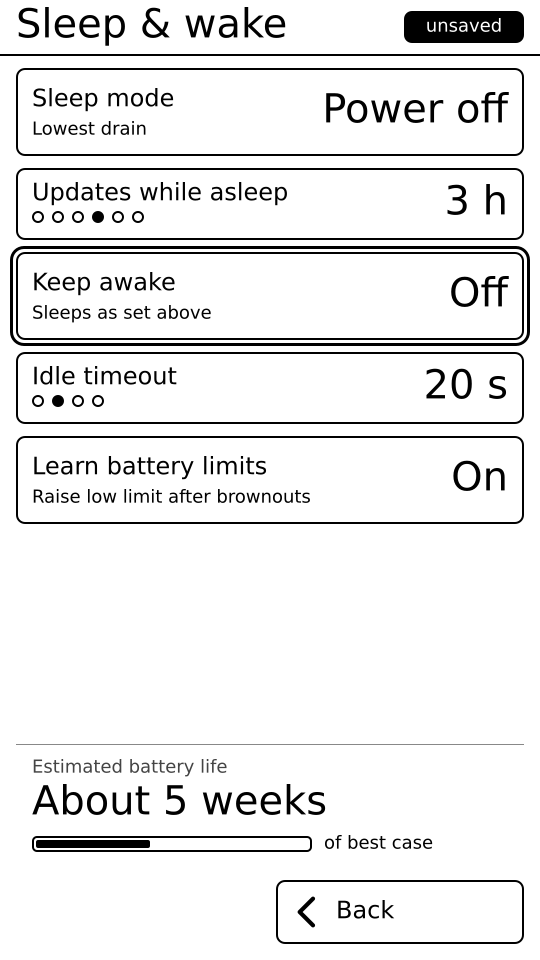
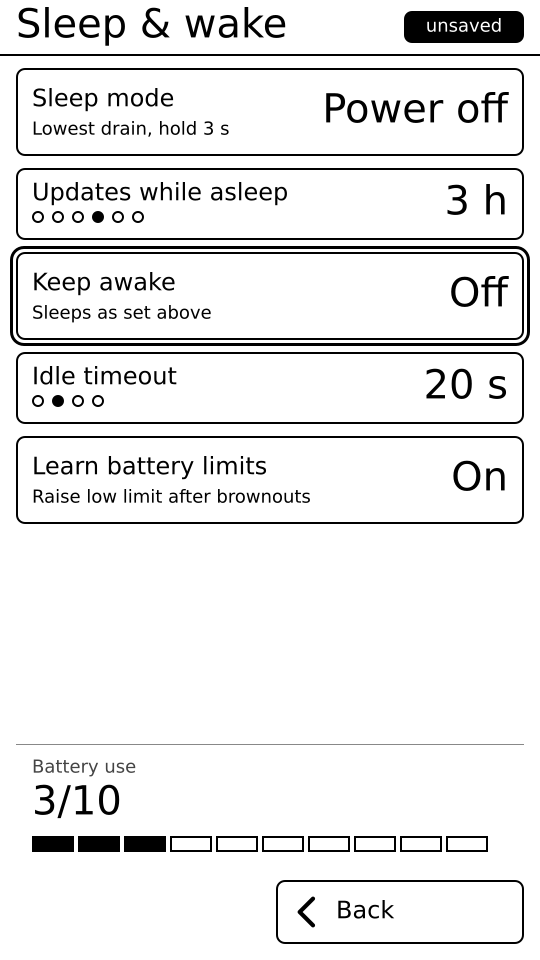
task 085: UI spec battery use bar 1..10, hold 3 s hint

Changed region(s): [[0.0593, 0.7812, 0.8296, 0.9062], [0.2963, 0.125, 0.4148, 0.1562]]

diff --git a/docs/ui/settings.md b/docs/ui/settings.md
@@ -76,7 +76,7 @@ Settings is a two-level system: the **overview** (main page) lists four **catego
 | Category | Settings (edit buffer fields) |
 |----------|-------------------------------|
 | Display | Orientation |
-| Sleep & wake | Sleep mode, Updates while asleep, Keep awake, Idle timeout, Learn battery limits; battery estimate (8.2, revision 10, task 085) |
+| Sleep & wake | Sleep mode, Updates while asleep, Keep awake, Idle timeout, Learn battery limits; battery use bar (8.2, revision 10, task 085) |
 | Network | Wi-Fi (`Auto` / profile names from secrets.yaml), HA connection (`Auto` / `Internal` / `External`) |
 | Tools | Demo mode, Debug log |
 
@@ -199,7 +199,7 @@ All pages: header (title = category name, chip when the buffer is dirty), no tab
 Portrait: Orientation pip row (16, 68, 508, 72). Below it a static caption F18 DIM at (16, 152) cy 168: `Applied when Settings is left.` Landscape: row (16, 64, 456, 68), caption at (16, 132) cy 148. Mockup shows the changed value (unsaved), focus on the row.
 
 ### 8.2 Sleep & wake (`settings-sleep-*.svg`, revision 10, task 085)
-Replaces Wake mode, Refresh every and Stay awake on USB (old 9.1). Mockups: `settings-sleep-portrait.svg` (Power off, updates 3 h, Keep awake Off, focus on Keep awake), `settings-sleep-landscape.svg` (Touch & rocker, 30 min, On USB not offered, touch note, focus on Updates), `settings-sleep-states.svg` (every value of the mode and Keep awake rows, forced-Off row, notes, four estimate looks). Row types as 3.1; values F40 INK right edge W - 16; labels F24 INK at x = 16 (row-relative); ids w-N as listed.
+Replaces Wake mode, Refresh every and Stay awake on USB (old 9.1). Mockups: `settings-sleep-portrait.svg` (Power off, updates 3 h, Keep awake Off, focus on Keep awake), `settings-sleep-landscape.svg` (Touch & rocker, 30 min, On USB not offered, touch note, focus on Updates), `settings-sleep-states.svg` (every value of the mode and Keep awake rows, forced-Off row, notes, four battery use looks (1, 3, 7, 10)). Row types as 3.1; values F40 INK right edge W - 16; labels F24 INK at x = 16 (row-relative); ids w-N as listed.
 
 | # | Row (id) | Type | Portrait rect | Landscape rect |
 |---|----------|------|---------------|----------------|
@@ -209,12 +209,12 @@ Replaces Wake mode, Refresh every and Stay awake on USB (old 9.1). Mockups: `set
 | 4 | Idle timeout (w-4) | pip, 72 / 68 | (16, 352, 508, 72) | (16, 344, 456, 68) |
 | 5 | Learn battery limits (w-5) | hint, 88 (as before: hint `Raise low limit after brownouts`, `Off` / `On`) | (16, 436, 508, 88) | (488, 64, 456, 88) |
 | - | Note area (w-6, w-7 when shown) | notes 64 high, stacked, pitch 76, in this order | from (16, 536, 508, 64) | from (488, 164, 456, 64) |
-| - | Estimate block (next w id) | 124 high, not interactive | (16, 744, 508, 124) | (488, 328, 456, 124) |
+| - | Battery use block (next w id) | 124 high, not interactive | (16, 744, 508, 124) | (488, 328, 456, 124) |
 | - | Back (last w id) | 3.4 | (276, 880, 248, 64) | (722, 464, 222, 64) |
 
-Vertical check (portrait): 68 + 88 + 12 + 72 + 12 + 88 + 12 + 72 + 12 + 88 = 524; notes 536..676 (two at most); estimate 744..868; Back 880 (12 px gap). Landscape: left column ends 412; right column notes end 304 at most; estimate 328..452; Back 464.
+Vertical check (portrait): 68 + 88 + 12 + 72 + 12 + 88 + 12 + 72 + 12 + 88 = 524; notes 536..676 (two at most); battery use block 744..868; Back 880 (12 px gap). Landscape: left column ends 412; right column notes end 304 at most; battery use block 328..452; Back 464.
 
-**Row 1, Sleep mode** (hint row; value F40, `Touch & rocker` F24 because F40 does not fit; hint F18 INK, live, label cy +32, hint cy +62, value cy +44). Cycle order = cost order, wraps: `Power off` (hint `Lowest drain`) -> `Deep sleep` (`Rocker, faster wake`) -> `Touch` (`Tap wakes`) -> `Touch & rocker` (`Tap or rocker`). Default `Power off` once task 084 works. Rocker always wakes in the first two and in `Touch & rocker`; `Touch` wakes by tap only. Migration of the old wake mode is firmware (Button -> Deep sleep unless 084 is usable, Touch, Touch & Button).
+**Row 1, Sleep mode** (hint row; value F40, `Touch & rocker` F24 because F40 does not fit; hint F18 INK, live, label cy +32, hint cy +62, value cy +44). Cycle order = cost order, wraps: `Power off` (hint `Lowest drain, hold 3 s`: from power-off the rocker must be held about 3 s to wake) -> `Deep sleep` (`Rocker, faster wake`) -> `Touch` (`Tap wakes`) -> `Touch & rocker` (`Tap or rocker`). Default `Power off` once task 084 works. Rocker always wakes in the first two and in `Touch & rocker`; `Touch` wakes by tap only. Migration of the old wake mode is firmware (Button -> Deep sleep unless 084 is usable, Touch, Touch & Button).
 
 **Row 2, Updates while asleep** (pip row, 6 pips): `Off` / `30 min` / `1 h` / `3 h` / `6 h` / `12 h` (cycle, wraps; 0 = Off). **Forced Off**: when Sleep mode is `Power off` and 084 cannot make the RTC power-on work, the row takes the unavailable look (STYLE.md section 8: 2 px dotted OFF border, label in OFF grey, no pips, value `Off` INK), ignores tap and PUSH, is skipped by the rocker focus, and the note `This device can't power on by` / `itself: updates stay Off.` shows (first slot). The stored value is kept and returns when the mode changes.
 
@@ -224,12 +224,12 @@ Vertical check (portrait): 68 + 88 + 12 + 72 + 12 + 88 + 12 + 72 + 12 + 88 = 524
 
 **Note area.** Alert-icon notes as 3.2 (icon M at (12, 12), lines F18 cy 21 / 43, text x = 64), stacked from the top of the area, at most two, in priority order: (1) forced Off (text above); (2) Sleep mode is `Touch` or `Touch & rocker`: `Touch wake shortens battery life.` / `Rocker wake is recommended.` (replaces the old rule 6 text; no numbers). A note appearing or clearing redraws the whole note area.
 
-**Estimate block** (not a button; no focus stop). Top hairline (0, 0, 456 or 508, 1) OFF; caption `Estimated battery life` F18 DIM at x = 16, cy = 24; value line F40 INK at x = 16, cy = 60; gauge outline (17, 93, 278, 14) radius 4, 2 px INK, fill bar (20, 96, w, 8) INK with w = max(6, round(272 x f)); text `of best case` F18 INK at x = 308, cy = 100. Offsets are block-relative. Value text (INK, rounded, `About` always): under 48 h `About N hours`; under 21 days `About N days` (N >= 10 rounded to 5); then `About N weeks` up to 26 weeks; above that `Over 6 months`. f = estimate / best case, where best case = the model's value for Power off, updates Off, Keep awake Off with the same assumed use (so f = 1 only at that setting); estimate is from lib/power, labelled `Estimated` until measured. Keep awake Always = hours.
-Redraw: the caption and hairline are static (drawn when the page opens); the live part is the value line and gauge, region (0, 36, W, 88) block-relative, INK/PAPER only (`epd_fastest`); text stays INK so it is a fast partial. A tap changes the row (one partial) and the estimate region together as one update; the estimate is recomputed from the shared edit buffer on every change.
+**Battery use block** (not a button; no focus stop; replaces the estimate block, no days/weeks text, no estimate wording). Top hairline (0, 0, W, 1) OFF; caption `Battery use` F18 DIM at x = 16, cy = 24; level text `N/10` F40 INK at x = 16, cy = 60; bar of 10 segments at y = 92, h = 16, from x = 16, pitch 46 (portrait, segment 42 wide, gap 4) or 42 (landscape, segment 38, gap 4). Segments 1..N filled INK, the rest 2 px INK outline on PAPER (shape, not grey). Offsets are block-relative. N = 1..10 comes from lib/power (1 = lowest drain, 10 = highest, e.g. Keep awake Always); N is an integer, never 0. Unavailable (model has no constants yet): text `n/10`, all segments outline.
+Redraw: the caption and hairline are static; the live part is the level text and bar, region (0, 36, W, 88) block-relative, INK/PAPER only (`epd_fastest`). A tap changes the row (one partial) and this region together as one update; N is recomputed from the shared edit buffer on every change.
 
-**Interactions.** Row tap or PUSH cycles the value in the buffer (rows 1..3, 4, 5); redraw = the row, the estimate region, the note area if its condition flipped, the `unsaved` chip if the dirty flag flipped (partial; INK-only regions `epd_fastest`; the forced-row dotted OFF border makes its redraw `epd_quality`). Rocker focus order: Sleep mode, Updates while asleep (skipped when forced), Keep awake, Idle timeout, Learn battery limits, Back. LONG_PUSH = back to the overview. Focus ring as section 5. Settings are saved on leaving (rule 2) and used the next time the device sleeps; the status-bar indicator (STYLE.md 5.6) shows the result.
+**Interactions.** Row tap or PUSH cycles the value in the buffer (rows 1..3, 4, 5); redraw = the row, the battery use region, the note area if its condition flipped, the `unsaved` chip if the dirty flag flipped (partial; INK-only regions `epd_fastest`; the forced-row dotted OFF border makes its redraw `epd_quality`). Rocker focus order: Sleep mode, Updates while asleep (skipped when forced), Keep awake, Idle timeout, Learn battery limits, Back. LONG_PUSH = back to the overview. Focus ring as section 5. Settings are saved on leaving (rule 2) and used the next time the device sleeps; the status-bar indicator (STYLE.md 5.6) shows the result.
 
-**States.** Loading: none. HA offline / entity unavailable: not relevant (device-local settings). Estimate unavailable (model has no constants yet): value line `Estimate n/a`, gauge empty. Demo mode: unchanged.
+**States.** Loading: none. HA offline / entity unavailable: not relevant (device-local settings). Battery use unavailable: see the block. Demo mode: unchanged.
 
 ### 8.3 Network (`settings-network-*.svg`)
 Hint rows, 88 high. Portrait: Wi-Fi (16, 68, 508, 88), HA connection (16, 168, 508, 88), note slot (16, 268, 508, 64). Landscape: Wi-Fi (16, 64, 456, 88), HA connection (488, 64, 456, 88), note (16, 164, 456, 64) (under Wi-Fi). Hints are live, read from the network state, never edited:
@@ -281,6 +281,6 @@ No on-screen countdown (partial refresh while holding would ghost and cost batte
 - OPEN-S8: toggle placed on the Sleep & wake page, not on the overview (coordinator's wording suggested the overview).
 
 ### 10. OPEN (revision 10, task 085)
-- OPEN-S9: the estimate wording, rounding and `of best case` gauge are proposals (best case = Power off, updates Off); architect to confirm the model can give a best case.
+- OPEN-S9: closed (task 085 notes): the estimate is replaced by the 1..10 Battery use bar; architect to confirm lib/power can give a level 1..10.
 - OPEN-S10: On USB falling back to Off when the mode no longer offers it (8.2 row 3) is a proposal; alternative is to keep the stored value and treat it as Off.
 - OPEN-S11: forced-Off Updates (Power off without a working RTC power-on) shows as a dotted row plus note; confirm 084 can report "RTC power-on unsupported" at settings time.
